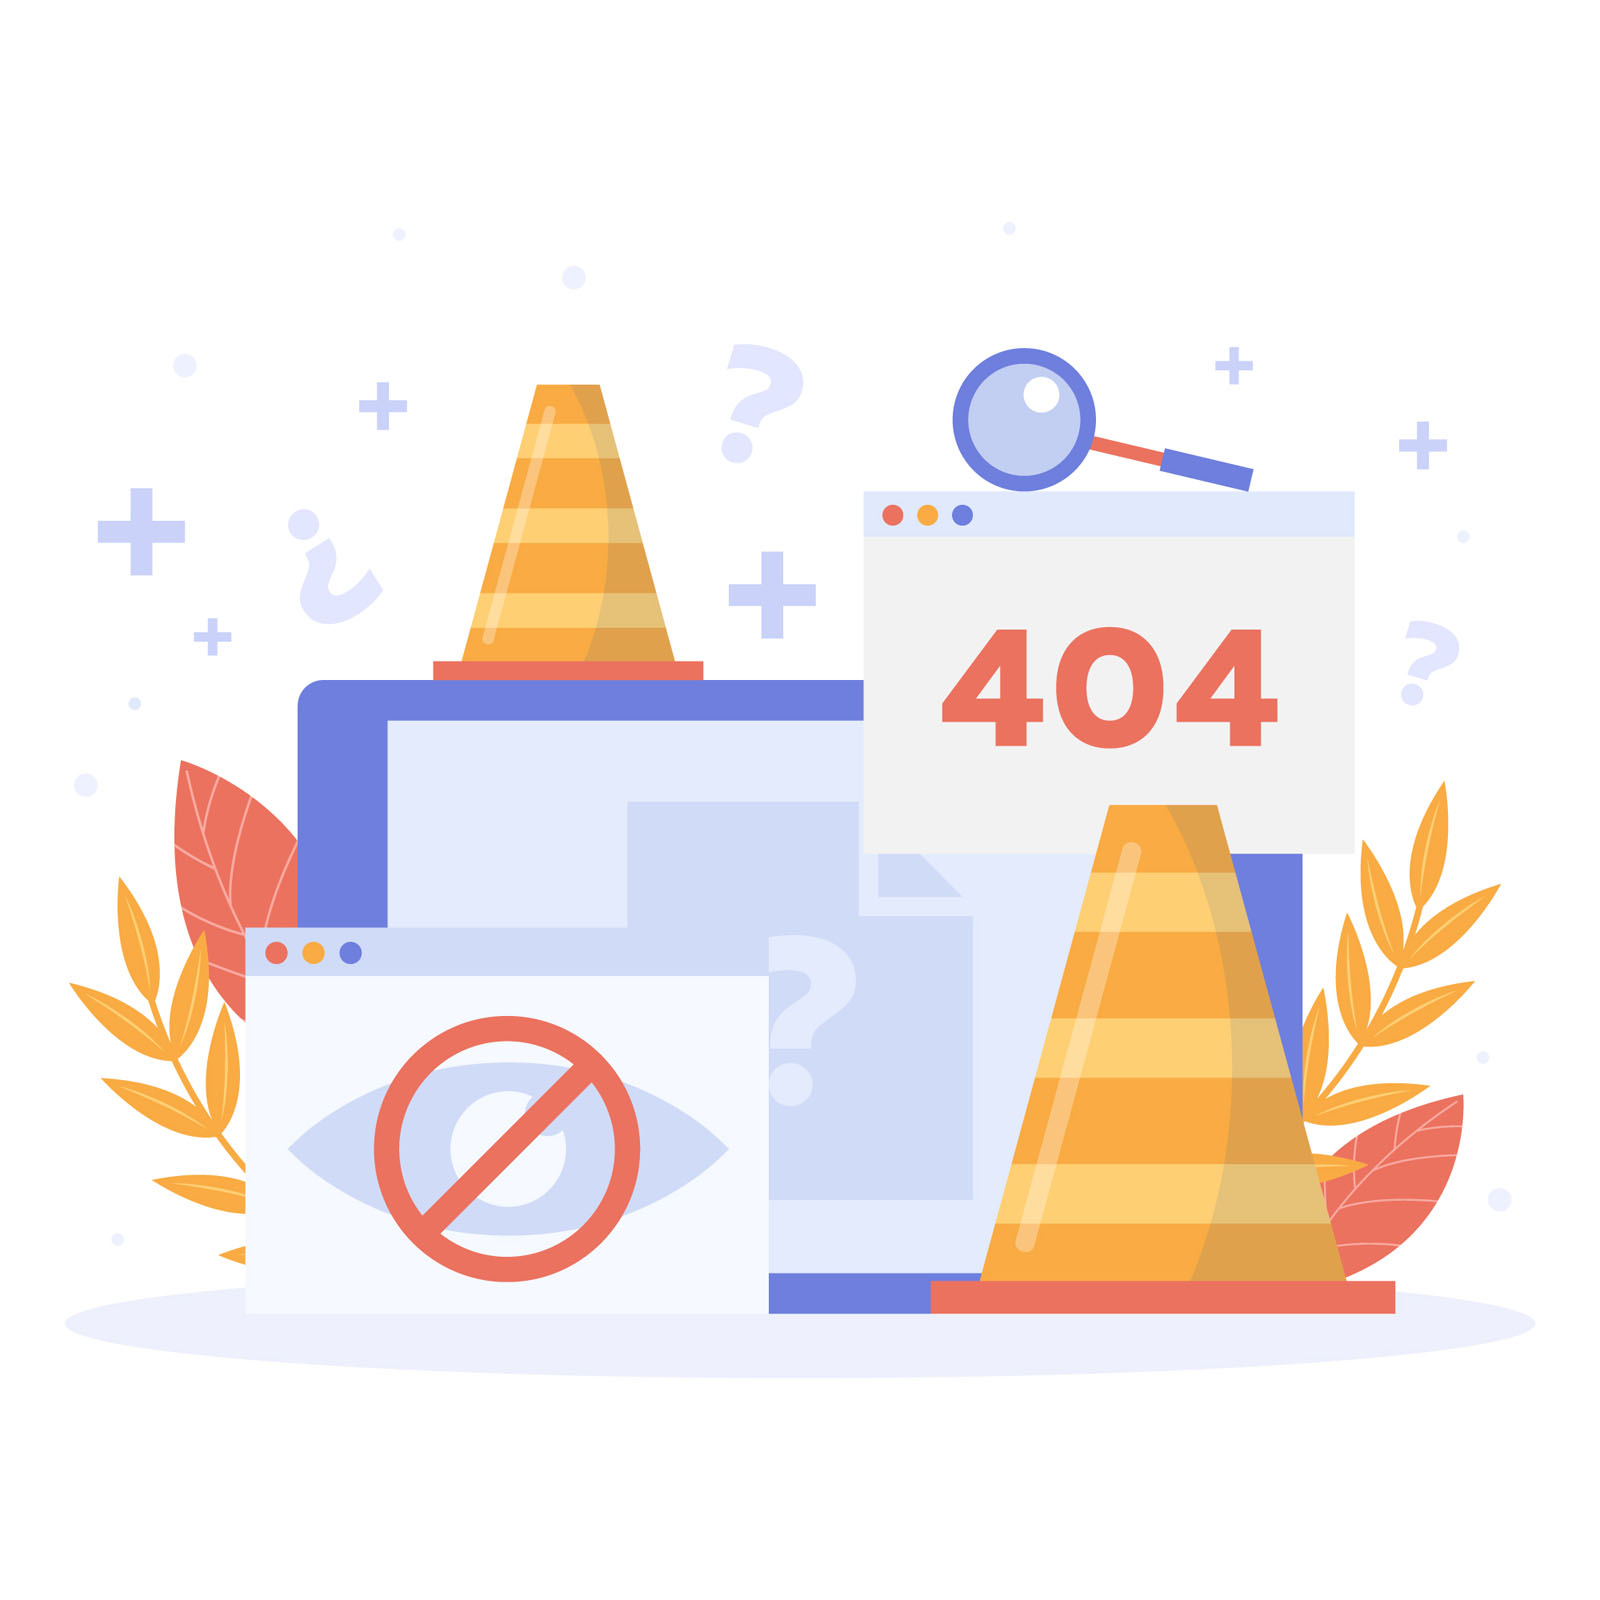
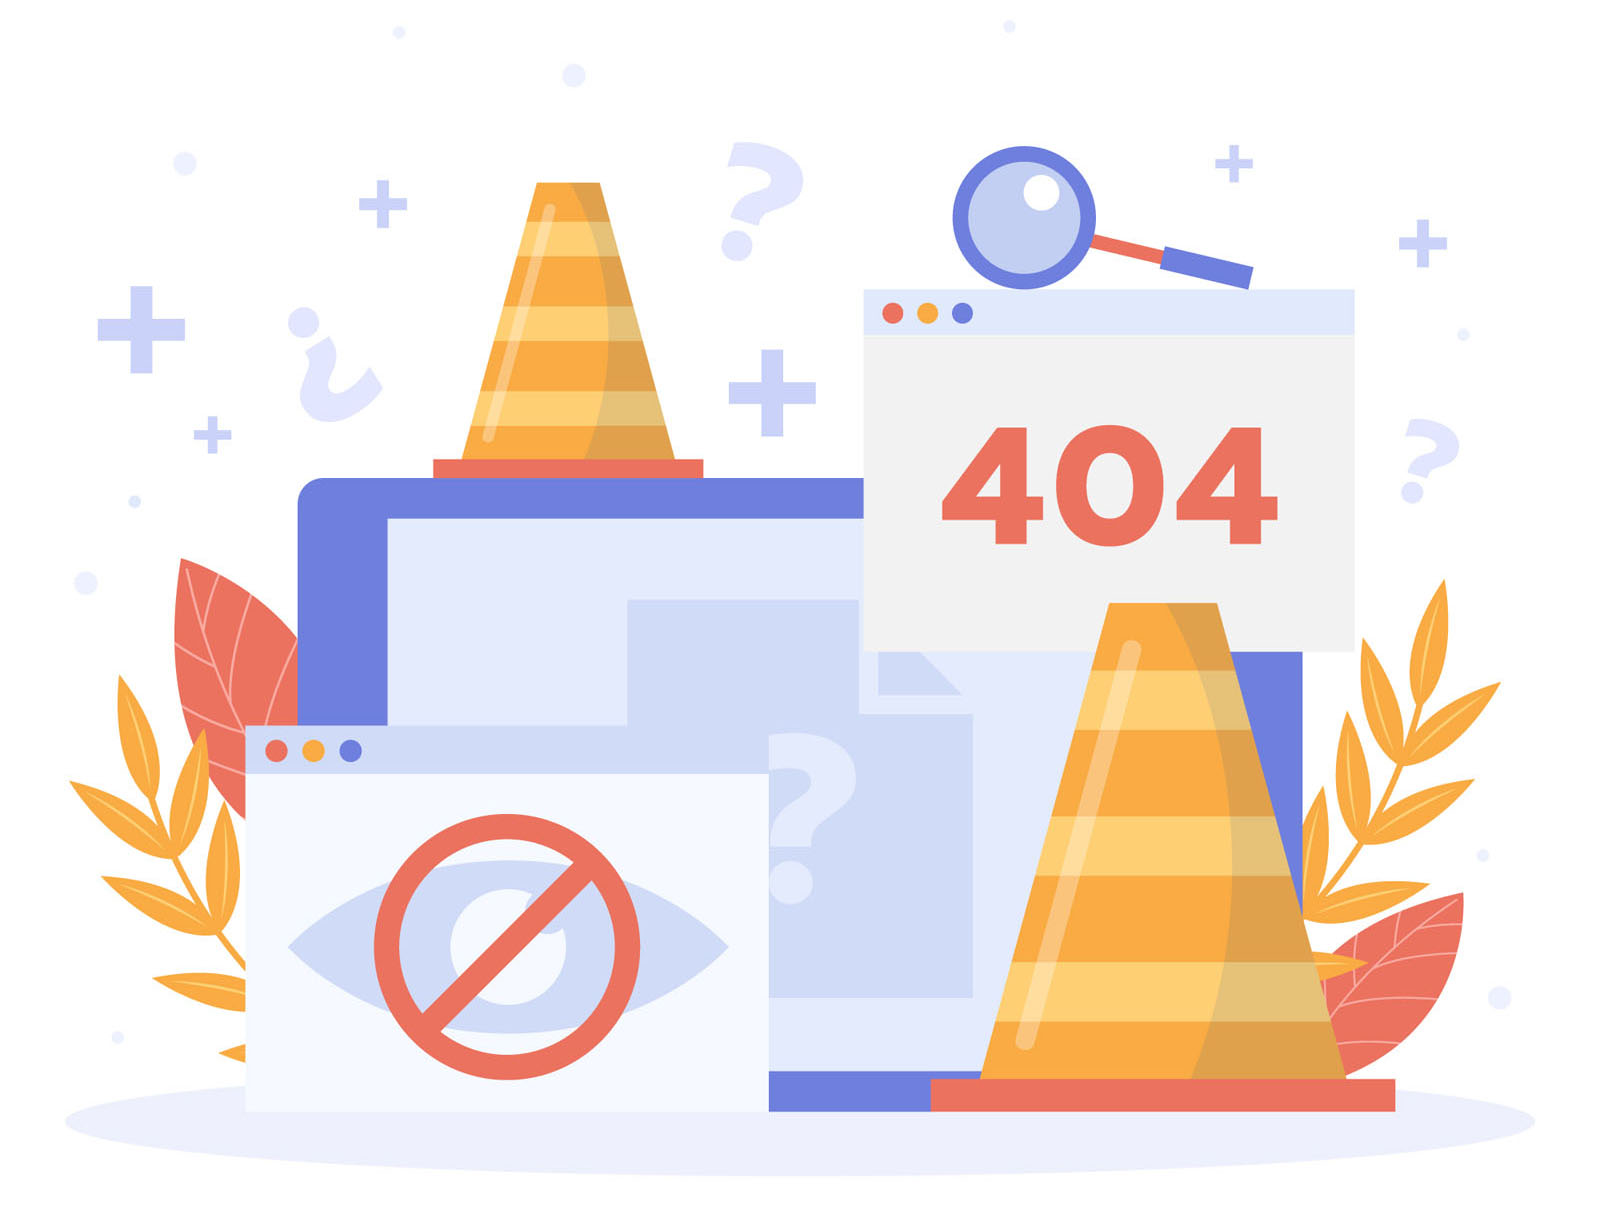
userImg added

diff --git a/todoList/app/assets/css/signup.css b/todoList/app/assets/css/signup.css
@@ -10,13 +10,12 @@ body {
 	display: flex;
 	justify-content: center;
 	align-items: center;
-	height: 100vh;
 	flex-direction: column;
-	margin-top: 4rem;
+	margin-bottom: 2rem;
 }
 
 form {
-	max-width: 500px;   
+	max-width: 500px; 
 	width: 90%;         /* 画面が狭いときは90%に可変 */
 	border: 2px solid #ccc;
 	padding: 30px;
@@ -25,10 +24,19 @@ form {
 	margin-top: 2rem;
 }
 
+h1 {
+	text-align: center;
+	color: #fff;
+	font-size: 2rem;
+}
+
 h2 {
+	color: #444;
 	text-align: center;
 	margin-bottom: 40px;
+	font-size: 1.5rem;
 }
+
 .notice {
 	text-align: center;
 	margin-bottom: 40px;
@@ -42,16 +50,19 @@ input {
 	margin: 10px auto;
 	border-radius: 5px;
 }
+
 label {
-	color: #888;
-	font-size: 18px;
+	color: #444;
+	font-size: 1rem;
+	font-weight:500;
 	padding: 10px;
 }
 
 .form_small{
 	display: block;	
 	padding: 5px 0 0 10px;
-	color: #888;
+	font-weight:500;
+	color: #444;
 }
 
 .img_captcha{
@@ -63,6 +74,7 @@ button {
 	background: #555;
 	padding: 10px 15px;
 	color: #fff;
+	font-weight: bold;
 	border-radius: 5px;
 	margin-right: 10px;
 	border: none;
@@ -88,18 +100,15 @@ button:hover{
    margin: 20px auto;
 }
 
-h1 {
-	text-align: center;
-	color: #fff;
-}
-
 .ca {
-	font-size: 14px;
+	font-size: 1rem;
+	font-weight: 500;
 	display: inline-block;
 	padding: 10px;
 	text-decoration: none;
 	color: #444;
 }
+
 .ca:hover {
 	text-decoration: underline;
 } 
@@ -133,13 +142,44 @@ a.ca:focus-visible {
 .imgDiv{
 	display: flex;
 	flex-direction: column;
-	text-align: center;	
-	padding: 5rem 0 5rem 0;
+	text-align: center;
+	align-items: center;
+	padding: 3rem 0 5rem 0;
+}
+.userImg{
+	width: 50%;
+	height: auto;
+	padding-bottom: 2rem;
+}
+.home_linkDiv{
+	display: flex;
+	flex-direction: column;
+	padding-top: 1rem;
 }
 .notFoundImg{
-	
 	padding-bottom: 3rem;
 	width: auto;
 	height: 30em;
-
+}
+.return_linkDiv{
+	display: flex;
+	justify-content: center;
+}
+.return_link_p{
+	display: flex;
+	align-items: center;
+	font-size: 1.5rem;
+	gap: 0.5rem;
+	padding-top: 1rem;
+	color: #444;
+}
+.return_link {
+	/* display: inline-block; */
+	font-size: 1.5rem;
+	padding: 10px;
+	text-decoration: none;
+	color: #444;
+}
+.return_link_p span {
+  line-height: 1; /* | の縦位置フォントサイズの1倍 */
 }

diff --git a/todoList/app/view/users/home.php b/todoList/app/view/users/home.php
@@ -14,15 +14,20 @@ if (!isset($_SESSION['id']) || !isset($_SESSION['user_name'])) {
      <title>Accueil</title>
 </head>
 <body>
+     <div class="imgDiv">
+          <img src="/assets/img/userF.jpg" alt="userImg" class="userImg">
+     
      <!-- Le nom affiché provient de l’utilisateur, donc échapper systématiquement
-      （表示名はユーザー入力なので必ずエスケープ） -->
-     <h1>Bonjour, <?= htmlspecialchars($_SESSION['name'], ENT_QUOTES, 'UTF-8') ?></h1><br>
+           （表示名はユーザー入力なので必ずエスケープ） -->
+     <h1>Bonjour, <?= htmlspecialchars($_SESSION['name'], ENT_QUOTES, 'UTF-8') ?></h1>
 
-     <a href="/">Aller à la liste de tâches</a>
-     <br>
-     <a href="/logout">Déconnexion</a>
-     <br>
-     <a href="/delete-account" style="color:red;">Supprimer mon compte</a>
-
+     <div class="home_linkDiv">
+          <a href="/">Aller à la liste de tâches</a>
+               <br>
+          <a href="/logout">Déconnexion</a>
+               <br>
+          <a href="/delete-account" style="color:red;">Supprimer mon compte</a>
+     </div>
+     </div>
 </body>
 </html>

diff --git a/todoList/app/view/404.php b/todoList/app/view/404.php
@@ -11,15 +11,17 @@
 <body>
     <div class="imgDiv">
         <img src="/assets/img/404fp.jpg" alt="404img" class="notFoundImg">
-        <div>
-            <h1>404 - Page non trouvée</h1><br>
-        <p>La page que vous cherchez n’existe pas.</p><br><br>
-        <p>
-            <a href="/signup" class="ca">Créer un compte</a> |
-            <a href="/login" class="ca">Se connecter</a>
-        </p>
-        </div>
-        
+        <h1>404 - Page non trouvée</h1>
+            <br>
+        <h2>La page que vous cherchez n’existe pas.</h2>
+
+        <div class="return_linkDiv">  
+            <p class="return_link_p">
+            <a href="/signup" class="return_link">Créer un compte </a> 
+            <span>|</span>
+            <a href="/login" class="return_link">Se connecter</a>
+            </p>
+        </div>    
     </div>
 </body>
 </html>

diff --git a/todoList/readme.md b/todoList/readme.md
@@ -86,6 +86,7 @@ Importer le fichier `app/_database/to_do_list0905.sql` via phpMyAdmin pour crée
 - time.gif (Pixabay)
 - check.jpg (Freep!k)
 - 404fp.jpg (Freep!k)
+- userF.jpg (Freep!k)
 
 ### Polices utilisées
 
